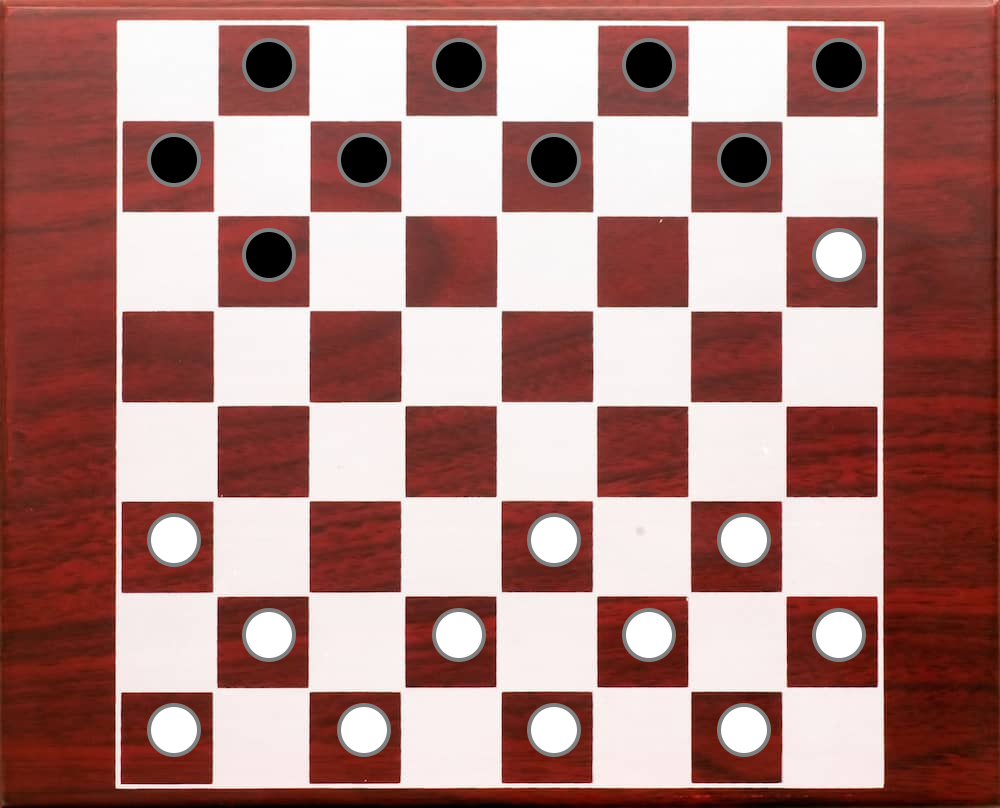
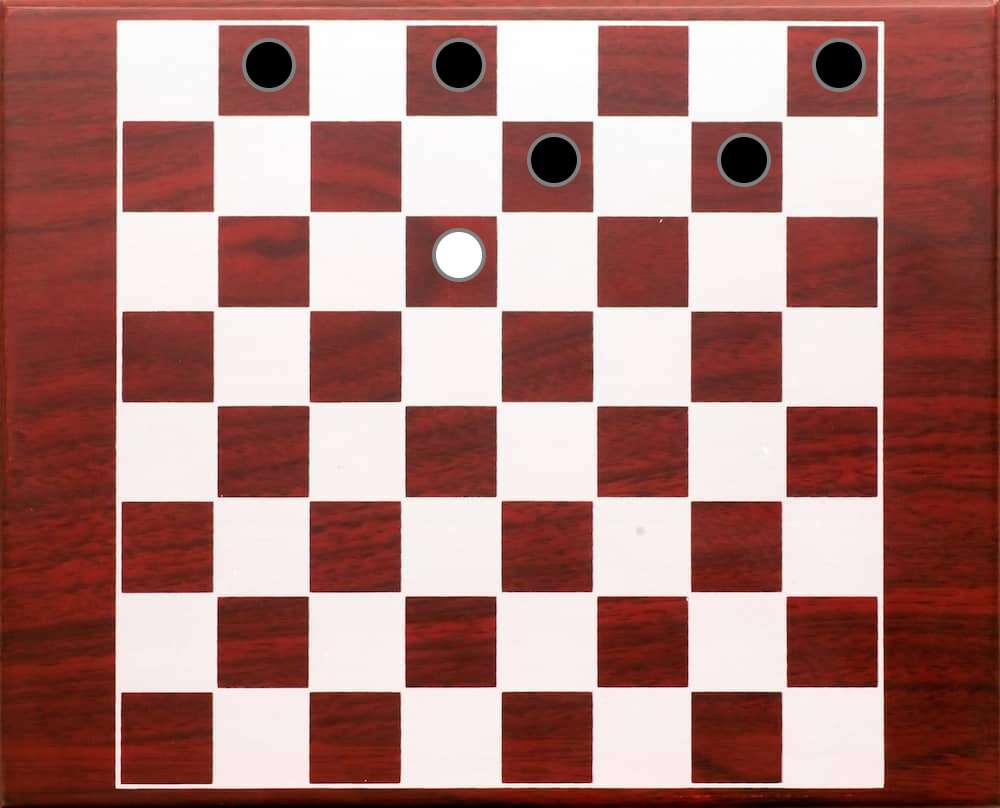
feat: :sparkles: Add a dump/load system

diff --git a/main.js b/main.js
@@ -1,5 +1,18 @@
 const { createCanvas, loadImage } = require('canvas');
-const { writeFileSync } = require('node:fs');
+const { writeFileSync, existsSync, readFileSync } = require('node:fs');
+
+const loadSaves = () => {
+	if (!existsSync('./saves.json')) {
+		writeFileSync('./saves.json', '{}');
+		return {};
+	}
+	return JSON.parse(readFileSync('./saves.json'));
+}
+const dumpAs = (array, name) => {
+	const values = loadSaves();
+	values[name] = array;
+	writeFileSync('./saves.json', JSON.stringify(values, null, 0));
+}
 
 const main = async() => {
 	const image = await loadImage('board.jpg');
@@ -119,6 +132,27 @@ const main = async() => {
 		if (text == "push") {
 			draw_image();
 			console.log(`\x1b[32m Added \x1b[33m${array.length}\x1b[32m points\x1b[0m`);
+		}
+		if (text.startsWith('dump ')) {
+			const name = text.slice('dump '.length);
+			dumpAs(array, name);
+
+			console.log(`Dumped config as \x1b[91m${name}\x1b[0m`);
+		}
+		if (text.startsWith('load ')) {
+			const name = text.slice('load '.length);
+			const save = loadSaves()[name];
+
+			if (!save) {
+				console.log(`\x1b[31mCannot find \x1b[33m${name}\x1b[0m`);
+			} else {
+				array.splice(0, array.length);
+				save.forEach(x => {
+					draw(x[0], x[1], x[2])
+				});
+
+				console.log(`\x1b[32mLoaded \x1b[33m${array.length}\x1b[32m elements from \x1b[91m${name}\x1b[0m`);
+			}
 		}
 		if (text == 'save') {
 			writeFileSync("output.jpg", Buffer.from(canvas.toBuffer()))
